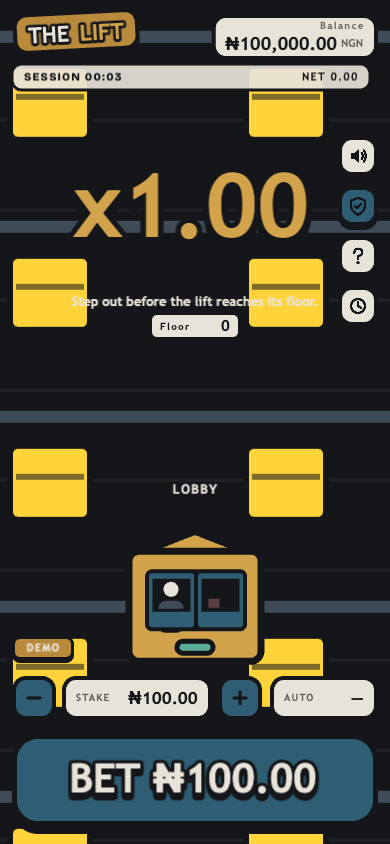
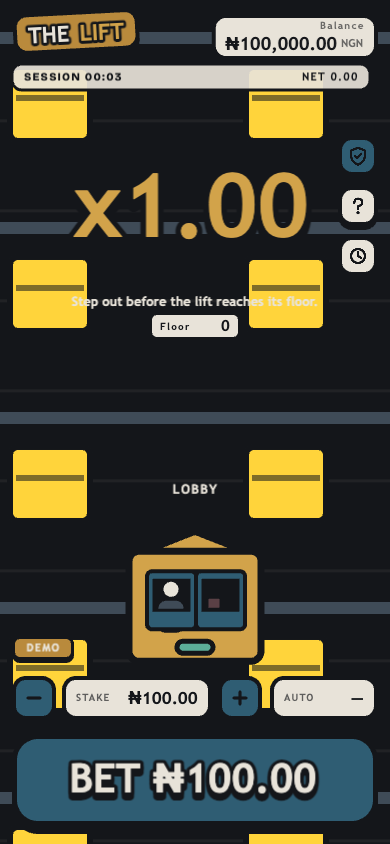
Close the last open item: no dead sound control
CrashScreen now hides the sound button in a game with no audio, so The Lift no
longer shows a control that does nothing. Verified by sweeping the right edge of
the built client rather than clicking where the controls used to be — the column
closes up when the button goes, so every position had moved. Fairness, rules and
history all open before any bet at y 140, 190 and 240.

The Lift still has no sound. That is a product gap, not a compliance one, and
the audit says so rather than leaving a later reader to read the absent control
as an absent rule.

Claude-Session: https://claude.ai/code/session_01QdizgdHY3HUiS9gCNC4WLj

Changed region(s): [[0.8615, 0.154, 0.9846, 0.3081], [0.8615, 0.3389, 0.9846, 0.4005]]

diff --git a/docs/compliance/the-lift-2026-09-17.md b/docs/compliance/the-lift-2026-09-17.md
@@ -261,12 +261,19 @@ true only of the stage each palette was drawn for. The Lift was not one of them.
 whether a game declares its `ground` at all, and The Lift declares it and takes brass (7.83:1) and a
 lighter teal (6.87:1) on the adult skin — muted, and legible.
 
-**The sound control is dead in this game.** The Lift passes `null` for audio, and the controller's
-`onSound` returns early when there is none, so the button is present, tappable, and does nothing:
-the icon does not even change. It is not a decoy in the AGCO 2.15 sense — it is a real control wired
-to a real handler — but it tells the player sound exists when it does not. Raised with the session
-that owns `CrashScreen`; the fix is for the controller to tell the view whether audio exists so the
-control can be hidden. **OPEN.**
+**The sound control was dead in this game, and is now hidden. CLOSED.** The Lift passes `null` for
+audio, and the controller's `onSound` returns early when there is none, so the button was present,
+tappable, and did nothing — the icon did not even change state. Not a decoy in the AGCO 2.15 sense,
+since it was a real control on a real handler, but it told the player sound existed when it did not.
+The controller now reports `setAudioAvailable(audio !== null)` and `CrashScreen` hides the button and
+re-places the remaining controls. Verified by sweeping the whole right edge of the built client
+rather than clicking the positions the controls used to occupy — which had shifted, precisely because
+the column closes up: fairness at y 140, rules at y 190, history at y 240, all reachable before any
+bet, and no fourth control to press.
+
+**The Lift still has no sound at all**, which is a product gap rather than a compliance one: no
+audio assets, so nothing to licence or to record in a `SOURCES.md`. Worth noting here only so that a
+later reader does not mistake the absent control for an absent rule.
 
 **The pattern, twice in one day.** Both of these were invisible to every automated check and obvious
 in a screenshot: a surface no round touches, and a colour no assertion covered. The checks answer
